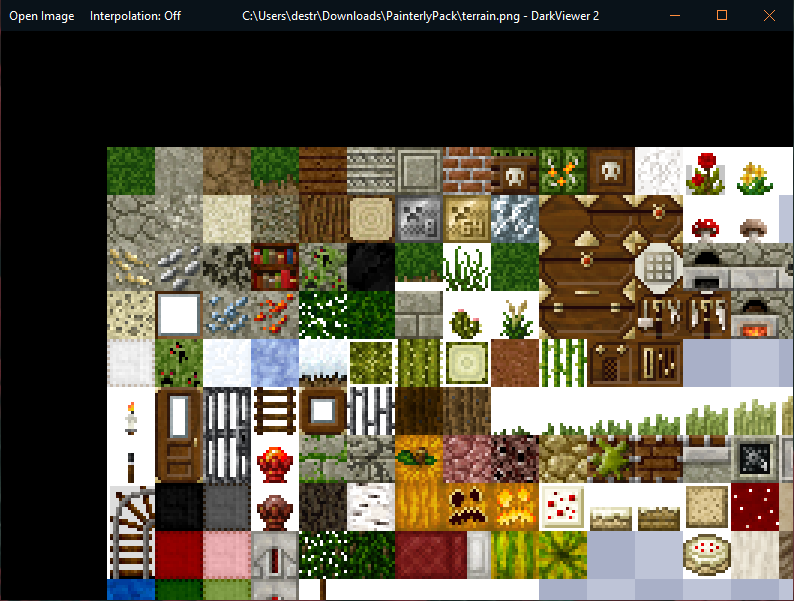
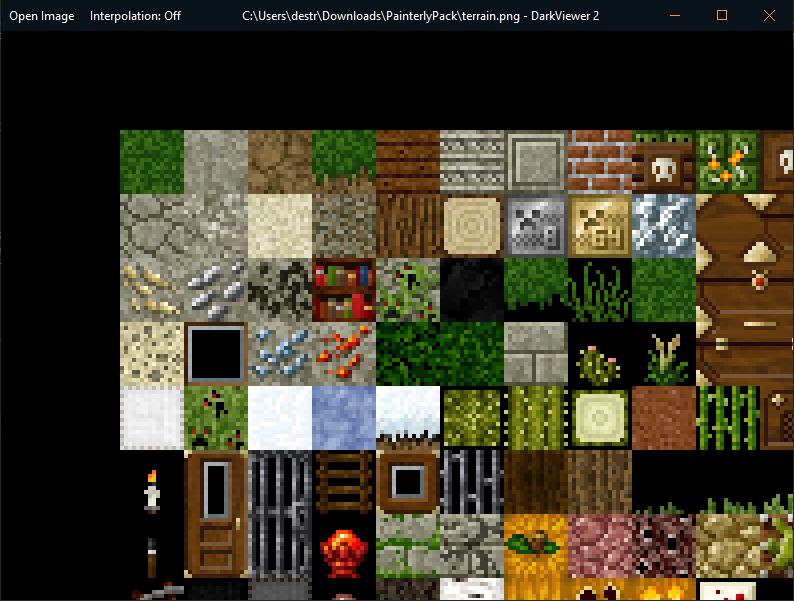
add alpha blending

diff --git a/main.c b/main.c
@@ -170,7 +170,7 @@ void ImageFromFile(Image *img, WCHAR *path, bool flip, bool bgr){
 	IWICBitmapFrameDecode *pFrame = 0;
 	pDecoder->lpVtbl->GetFrame(pDecoder,0,&pFrame);
 	IWICBitmapSource *convertedSrc = 0;
-	WICConvertBitmapSource(&GUID_WICPixelFormat32bppRGBA,pFrame,&convertedSrc);
+	WICConvertBitmapSource(bgr ? &GUID_WICPixelFormat32bppBGRA : &GUID_WICPixelFormat32bppRGBA,pFrame,&convertedSrc);
 	convertedSrc->lpVtbl->GetSize(convertedSrc,&img->width,&img->height);
 	uint32_t size = img->width*img->height*sizeof(uint32_t);
 	img->rowPitch = img->width*sizeof(uint32_t);
@@ -188,19 +188,29 @@ void ImageFromFile(Image *img, WCHAR *path, bool flip, bool bgr){
 			FatalErrorW(L"ImageFromFile: %s CopyPixels failed",path);
 		}
 	}
-	if (bgr){
-		for (int y = 0; y < img->height; y++){
-			for (int x = 0; x < img->width; x++){
-				uint8_t *p = img->pixels+y*img->width+x;
-				uint8_t r = p[0];
-				p[0] = p[2];
-				p[2] = r;
-			}
-		}
-	}
 	convertedSrc->lpVtbl->Release(convertedSrc);
 	pFrame->lpVtbl->Release(pFrame);
 	pDecoder->lpVtbl->Release(pDecoder);
+}
+void ImageFromFileAlphaOverBlack(Image *img, WCHAR *path, bool flip, bool bgr){
+	ImageFromFile(img,path,flip,bgr);
+	/*
+	GDI's "AlphaBlend" doesn't work for scaling an image up, so instead I manually alpha blend
+	each pixel with black (the background color).
+	The alpha blend formula is
+		color = background * (1 - alpha) + foreground * alpha
+	Because black is 0, this is just
+		color = foreground * alpha
+	*/
+	for (int y = 0; y < img->height; y++){
+		for (int x = 0; x < img->width; x++){
+			uint8_t *p = img->pixels+y*img->width+x;
+			float a = p[3] / 255.0f;
+			p[0] = p[0] * a;
+			p[1] = p[1] * a;
+			p[2] = p[2] * a;
+		}
+	}
 }
 
 /********************** DarkViewer 2 */
@@ -274,7 +284,7 @@ void GetImagesInFolder(LPWSTRList *list, WCHAR *path){
 }
 void OpenImageFromNewFolder(WCHAR *path){
 	if (image.pixels) free(image.pixels);
-	ImageFromFile(&image,path,false,true);
+	ImageFromFileAlphaOverBlack(&image,path,false,true);
 	_snwprintf(gpath,COUNT(gpath),L"%s - DarkViewer 2",path);
 	SetWindowTextW(gwnd,gpath);
 	wcscpy(gpath,path);
@@ -318,7 +328,7 @@ void Left(){
 		free(image.pixels);
 		imageIndex--;
 		_snwprintf(gpath,COUNT(gpath),L"%s%s",currentFolder,imagePaths.elements[imageIndex]);
-		ImageFromFile(&image,gpath,0,true);
+		ImageFromFileAlphaOverBlack(&image,gpath,0,true);
 		wcscat(gpath,L" - DarkViewer 2");
 		SetWindowTextW(gwnd,gpath);
 		InvalidateRect(gwnd,0,0);
@@ -329,7 +339,7 @@ void Right(){
 		free(image.pixels);
 		imageIndex++;
 		_snwprintf(gpath,COUNT(gpath),L"%s%s",currentFolder,imagePaths.elements[imageIndex]);
-		ImageFromFile(&image,gpath,0,true);
+		ImageFromFileAlphaOverBlack(&image,gpath,0,true);
 		wcscat(gpath,L" - DarkViewer 2");
 		SetWindowTextW(gwnd,gpath);
 		InvalidateRect(gwnd,0,0);
